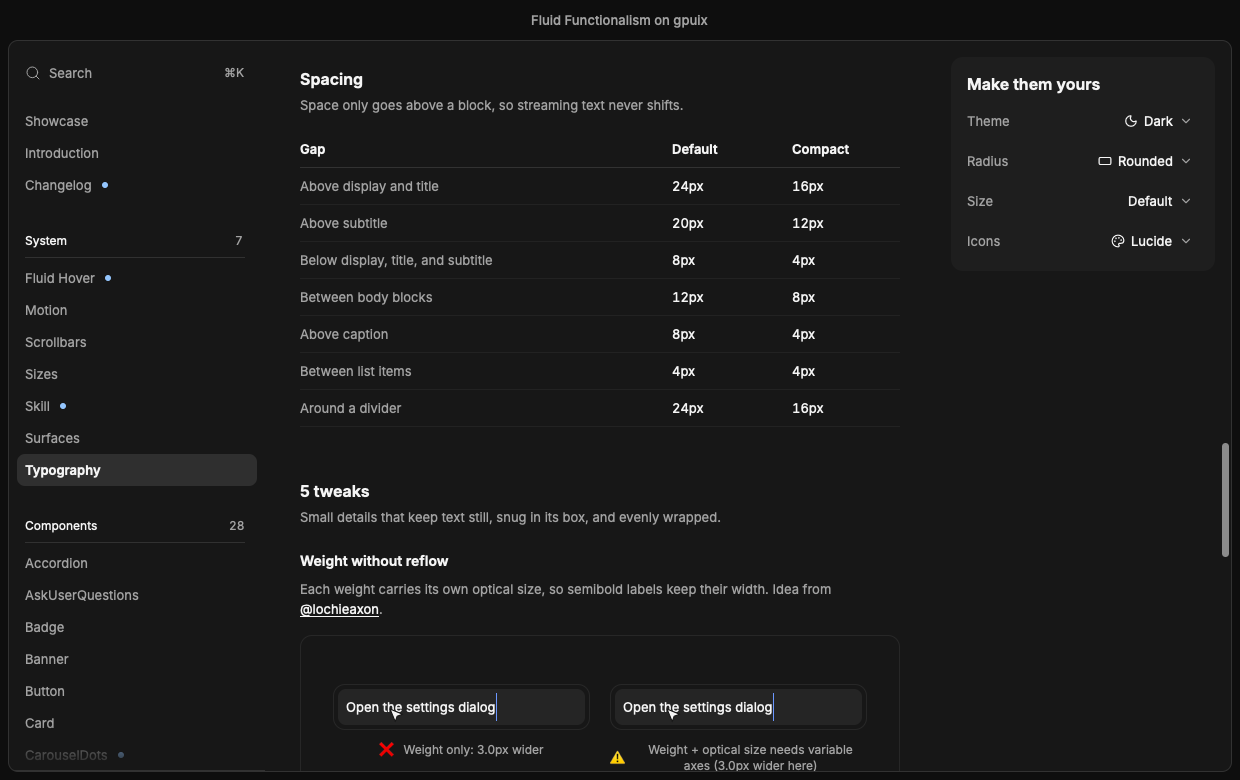
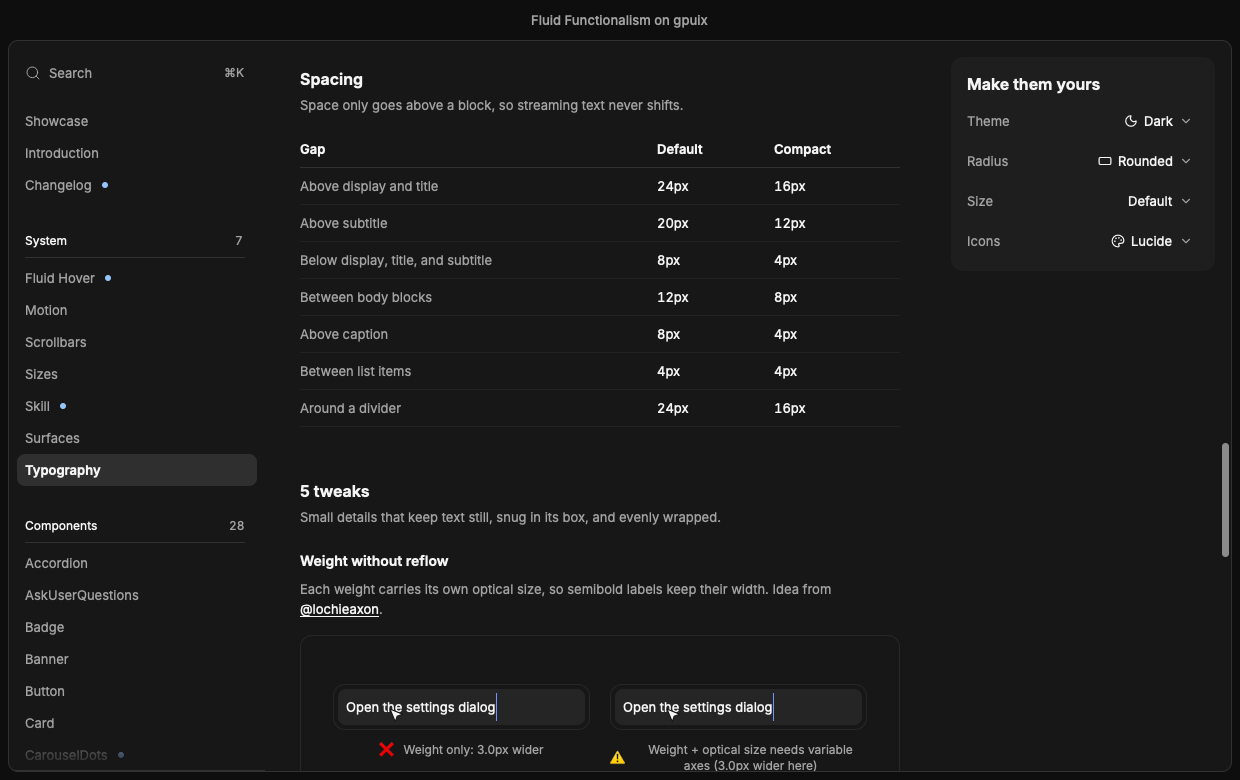
Typography page: the markdown table and the Spacing table are display:table that size by content, the sheet's min-width:max-content and sideways scroll included; drift entry closed

diff --git a/src/pages/typography/scale.tsx b/src/pages/typography/scale.tsx
@@ -193,85 +193,81 @@ const cell = {
 	paddingBottom: 8,
 } as const;
 
-/** Read from the sheet's own values, styled like the PropsTable: three columns, the first flush left. */
+/** `th` / `td` of the sheet's table: `px-3 py-2 text-left`, the first column flush left. */
+function GapCell(props: {
+	first: boolean;
+	rule: string;
+	header?: boolean;
+	muted?: boolean;
+	children: string;
+}) {
+	return (
+		<div
+			style={{
+				display: 'table-cell',
+				verticalAlign: 'middle',
+				...cell,
+				...(props.first ? { paddingLeft: 0 } : {}),
+				borderBottomStyle: 'solid',
+				borderBottomWidth: 1,
+				borderBottomColor: props.rule,
+			}}
+		>
+			<text
+				style={{
+					...siteType.body,
+					textAlign: 'left',
+					fontVariantNumeric: 'tabular-nums',
+					...(props.header === true ? { fontWeight: weight.semibold } : {}),
+					color:
+						props.muted === true ? color.mutedForeground : color.foreground,
+				}}
+			>
+				{props.children}
+			</text>
+		</div>
+	);
+}
+
+/** Read from the sheet's own values, styled like the PropsTable: a `w-full` table whose columns size to their content, the first flush left. */
 export function GapTable() {
-	const columns = 'minmax(0, 3fr) minmax(0, 1fr) minmax(0, 1fr)';
-	const lead = { paddingLeft: 0 } as const;
 	return (
 		<div
 			testId="gap-table"
-			style={{ display: 'flex', flexDirection: 'column' }}
+			style={{
+				display: 'table',
+				borderCollapse: 'collapse',
+				width: '100%',
+			}}
 		>
-			<div
-				style={{
-					display: 'grid',
-					gridTemplateColumns: columns,
-					borderBottomStyle: 'solid',
-					borderBottomWidth: 1,
-					borderColor: color.border,
-				}}
-			>
-				<For each={['Gap', 'Default', 'Compact']}>
-					{(label, index) => (
-						<text
-							style={{
-								...cell,
-								...(index() === 0 ? lead : {}),
-								...siteType.body,
-								fontWeight: weight.semibold,
-								color: color.foreground,
-								fontVariantNumeric: 'tabular-nums',
-							}}
-						>
-							{label}
-						</text>
+			<div style={{ display: 'table-header-group' }}>
+				<div style={{ display: 'table-row' }}>
+					<For each={['Gap', 'Default', 'Compact']}>
+						{(label, index) => (
+							<GapCell header first={index() === 0} rule={color.border}>
+								{label}
+							</GapCell>
+						)}
+					</For>
+				</div>
+			</div>
+			<div style={{ display: 'table-row-group' }}>
+				<For each={GAPS}>
+					{(entry) => (
+						<div style={{ display: 'table-row' }}>
+							<GapCell first muted rule={borderFainter()}>
+								{entry[1]}
+							</GapCell>
+							<GapCell first={false} rule={borderFainter()}>
+								{`${TYPESET_SPACE[entry[0]].default}px`}
+							</GapCell>
+							<GapCell first={false} rule={borderFainter()}>
+								{`${TYPESET_SPACE[entry[0]].compact}px`}
+							</GapCell>
+						</div>
 					)}
 				</For>
 			</div>
-			<For each={GAPS}>
-				{(entry) => (
-					<div
-						style={{
-							display: 'grid',
-							gridTemplateColumns: columns,
-							borderBottomStyle: 'solid',
-							borderBottomWidth: 1,
-							borderColor: borderFainter(),
-						}}
-					>
-						<text
-							style={{
-								...cell,
-								...lead,
-								...siteType.body,
-								color: color.mutedForeground,
-							}}
-						>
-							{entry[1]}
-						</text>
-						<text
-							style={{
-								...cell,
-								...siteType.body,
-								color: color.foreground,
-								fontVariantNumeric: 'tabular-nums',
-							}}
-						>
-							{`${TYPESET_SPACE[entry[0]].default}px`}
-						</text>
-						<text
-							style={{
-								...cell,
-								...siteType.body,
-								color: color.foreground,
-								fontVariantNumeric: 'tabular-nums',
-							}}
-						>
-							{`${TYPESET_SPACE[entry[0]].compact}px`}
-						</text>
-					</div>
-				)}
-			</For>
 		</div>
 	);
 }

diff --git a/src/pages/typography/markdown.tsx b/src/pages/typography/markdown.tsx
@@ -402,49 +402,74 @@ const TABLE: readonly (readonly string[])[] = [
 	['slow', '0.24s', 'Dialogs and drawers'],
 ];
 
-/** Column widths follow the longest cell, as an auto-layout table's do. */
-const TABLE_COLUMNS = TABLE[0].map((_, column) =>
-	Math.max(...TABLE.map((row) => row[column].length)),
-);
-
-function Table() {
-	const columns = TABLE_COLUMNS.map(
-		(length) => `minmax(max-content, ${length}fr)`,
-	).join(' ');
+/** The sheet's `th, td`: the cell padding and the one rule under each. */
+function Cell(props: { header: boolean; first: boolean; children: string }) {
 	return (
 		<div
 			style={{
-				display: 'grid',
-				gridTemplateColumns: columns,
-				fontVariantNumeric: 'tabular-nums',
+				display: 'table-cell',
+				verticalAlign: 'top',
+				fontSize: roleStyle('body').fontSize,
+				paddingTop: '0.5em',
+				paddingBottom: '0.5em',
+				paddingLeft: props.first ? 0 : '0.75em',
+				paddingRight: '0.75em',
+				borderBottomStyle: 'solid',
+				borderBottomWidth: 1,
+				borderBottomColor: color.border,
 			}}
 		>
-			<For each={TABLE}>
-				{(row, rowIndex) => (
-					<For each={row}>
-						{(cell, column) => (
-							<text
-								style={{
-									...roleStyle('body'),
-									textAlign: 'left',
-									paddingTop: '0.5em',
-									paddingBottom: '0.5em',
-									paddingLeft: column() === 0 ? 0 : '0.75em',
-									paddingRight: '0.75em',
-									borderBottomStyle: 'solid',
-									borderBottomWidth: 1,
-									borderColor: color.border,
-									...(rowIndex() === 0
-										? { fontWeight: weight.semibold, color: color.foreground }
-										: { color: color.mutedForeground }),
-								}}
-							>
-								{cell}
-							</text>
-						)}
-					</For>
+			<text
+				style={{
+					...roleStyle('body'),
+					textAlign: 'left',
+					...(props.header
+						? { fontWeight: weight.semibold, color: color.foreground }
+						: { color: color.mutedForeground }),
+				}}
+			>
+				{props.children}
+			</text>
+		</div>
+	);
+}
+
+function Row(props: { cells: readonly string[]; header: boolean }) {
+	return (
+		<div style={{ display: 'table-row' }}>
+			<For each={props.cells}>
+				{(cell, column) => (
+					<Cell header={props.header} first={column() === 0}>
+						{cell}
+					</Cell>
 				)}
 			</For>
+		</div>
+	);
+}
+
+/** The sheet's `table` inside the `.tableWrapper` that scrolls it sideways instead of squeezing the columns. */
+function Table() {
+	return (
+		<div style={{ overflowX: 'auto' }}>
+			<div
+				style={{
+					display: 'table',
+					borderCollapse: 'collapse',
+					width: '100%',
+					minWidth: 'max-content',
+					fontVariantNumeric: 'tabular-nums',
+				}}
+			>
+				<div style={{ display: 'table-header-group' }}>
+					<Row cells={TABLE[0]} header />
+				</div>
+				<div style={{ display: 'table-row-group' }}>
+					<For each={TABLE.slice(1)}>
+						{(row) => <Row cells={row} header={false} />}
+					</For>
+				</div>
+			</div>
 		</div>
 	);
 }

diff --git a/drift/typography.md b/drift/typography.md
@@ -25,14 +25,6 @@ repeating it.
 - **Fidelity:** approximated; italic dropped.
 - **Components it hits:** just this page.
 
-## The table is a grid, its column widths estimated
-
-- **Cause:** `gpuix gap` (no `display: table`, README "gpuix gaps across components", table row) and `port choice`.
-- **Original:** an auto-layout `<table width: 100%>` whose columns share the extra width in proportion to their widest cell (`generate.ts`, `el("table")`); a Tiptap `.tableWrapper` scrolls it sideways.
-- **Port:** a `display: grid` with `minmax(max-content, Nfr)` tracks, N the longest cell's character count; cells carry the `0.5em 0.75em` padding and a `border` rule each. No sideways scroll. The code block scrolls sideways (`overflowX: "auto"`) as the sheet's `pre` does, with no syntax colours (the source has none either).
-- **Fidelity:** approximated.
-- **Components it hits:** just this page; the Spacing table below uses `3fr 1fr 1fr` the same way.
-
 ## The page follows the Size row, and the source's S shortcut is missing
 
 - **Cause:** `not ported yet` (the global settings shortcuts, [site.md](site.md#theme-shortcut-tooltips-toasts)).
